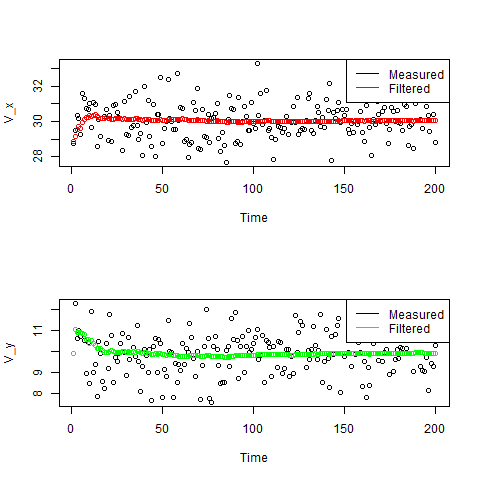
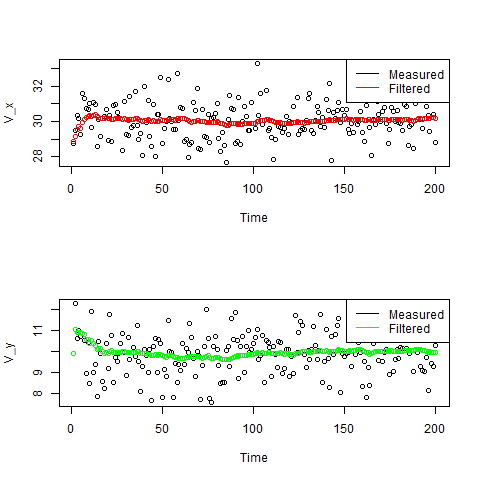
Add Q prediction model covariance

diff --git a/kalman.go b/kalman.go
@@ -15,7 +15,7 @@ type prediction struct {
 	F *mat.Dense // Prediction matrix
 	B *mat.Dense // Control matrix
 
-	W *mat.Dense // Prediction noise
+	//W *mat.Dense // Prediction noise
 	Q *mat.Dense // External noise
 }
 
@@ -31,16 +31,17 @@ func (P *prediction) NextState(ctx *context, ctrl mat.Vector) error {
 
 func (P *prediction) NextCovariance(ctx *context) error {
 	// predict new covariance matrix
-	// P_new = F * P * F^t
+	// P_new = F * P * F^t + Q
 	var PFt mat.Dense
 	PFt.Mul(ctx.P, P.F.T())
 	ctx.P.Mul(P.F, &PFt)
+	ctx.P.Add(ctx.P, P.Q)
 	return nil
 }
 
 type update struct {
 	H *mat.Dense // scaling matrix
-	R *mat.Dense // error in measurements
+	R *mat.Dense // measurements errors
 }
 
 func (u *update) Update(ctx *context, z mat.Vector) error {
@@ -75,6 +76,7 @@ func (u *update) Update(ctx *context, z mat.Vector) error {
 //Filter interface for using the Kalman filter
 type Filter interface {
 	Apply(z, ctrl mat.Vector) mat.Vector
+	State() mat.Vector
 }
 
 type filterImpl struct {
@@ -88,8 +90,15 @@ func (f *filterImpl) Apply(z, ctrl mat.Vector) mat.Vector {
 	f.Pred.NextState(&f.Ctx, ctrl)
 	f.Pred.NextCovariance(&f.Ctx)
 	f.Upd.Update(&f.Ctx, z)
+	var filtered mat.VecDense
+	filtered.MulVec(f.Upd.H, f.Ctx.X)
+	return &filtered
+}
+
+//State return the current state of the context
+func (f *filterImpl) State() mat.Vector {
 	var state mat.VecDense
-	state.MulVec(f.Upd.H, f.Ctx.X)
+	state.CloneVec(f.Ctx.X)
 	return &state
 }
 
@@ -100,7 +109,7 @@ func (f *filterImpl) Apply(z, ctrl mat.Vector) mat.Vector {
 //B: control matrix
 //H: scaling matrix for measurements
 //R: measurement error matrix
-func NewFilter(X *mat.VecDense, P, F, B, H, R *mat.Dense) Filter {
+func NewFilter(X *mat.VecDense, P, F, B, Q, H, R *mat.Dense) Filter {
 	var ctx context
 	var pred prediction
 	var upd update
@@ -114,8 +123,8 @@ func NewFilter(X *mat.VecDense, P, F, B, H, R *mat.Dense) Filter {
 	pred.B = B
 
 	// noises
-	pred.W = mat.NewDense(2, 2, nil)
-	pred.Q = mat.NewDense(2, 2, nil)
+	//pred.W = mat.NewDense(2, 2, nil)
+	pred.Q = Q
 
 	// update
 	upd.H = H

diff --git a/kalman_test.go b/kalman_test.go
@@ -21,7 +21,7 @@ func NewSetup() (*context, *prediction, *update) {
 	pred.F = mat.NewDense(2, 2, []float64{1, dt, 0, 1})
 	pred.B = mat.NewDense(2, 1, []float64{0.5 * dt * dt, dt})
 
-	pred.W = mat.NewDense(2, 2, nil)
+	//pred.W = mat.NewDense(2, 2, nil)
 	pred.Q = mat.NewDense(2, 2, nil)
 
 	// init update
@@ -96,7 +96,7 @@ func TestUpdate(t *testing.T) {
 
 func TestFilter(t *testing.T) {
 	ctx, pred, upd := NewSetup()
-	filter := NewFilter(ctx.X, ctx.P, pred.F, pred.B, upd.H, upd.R)
+	filter := NewFilter(ctx.X, ctx.P, pred.F, pred.B, pred.Q, upd.H, upd.R)
 
 	ctrl := mat.NewVecDense(1, []float64{2.0})
 	z := mat.NewVecDense(2, []float64{4260.0, 282.0})
@@ -107,6 +107,13 @@ func TestFilter(t *testing.T) {
 		fmt.Println("actual:", filteredState)
 		fmt.Println("expected:", expectedX)
 		t.Error("ApplyFilter")
+	}
+
+	checkState := filter.State()
+	if !mat.EqualApprox(filteredState, checkState, 1e-4) {
+		fmt.Println("actual:", checkState)
+		fmt.Println("expected:", filteredState)
+		t.Error("StateFilter")
 	}
 
 }

diff --git a/example/car/car.go b/example/car/car.go
@@ -39,6 +39,13 @@ func main() {
 	// no external influence
 	B := mat.NewDense(4, 4, nil)
 
+	// process model covariance matrix
+	Q := mat.NewDense(4, 4, []float64{
+		dt * dt * dt * 0.33, 0, dt * dt * 0.5, 0,
+		0, dt * dt * dt * 0.33, 0, dt * dt * 0.5,
+		dt * dt * 0.5, 0, dt, 0,
+		0, dt * dt * 0.5, 0, dt})
+
 	// scaling matrix: only measure velocities
 	H := mat.NewDense(2, 4, []float64{
 		0, 0, 1, 0,
@@ -48,7 +55,7 @@ func main() {
 	R := mat.NewDense(2, 2, []float64{100, 0, 0, 100})
 
 	// create Kalman filter
-	filter := kalman.NewFilter(X, P, F, B, H, R)
+	filter := kalman.NewFilter(X, P, F, B, Q, H, R)
 
 	// no control
 	control := mat.NewVecDense(4, nil)

diff --git a/README.md b/README.md
@@ -6,79 +6,36 @@
 
 ```go get github.com/konimarti/kalman```
 
-## Example
+## Usage
 ```go
-package main
-
-import (
-	"fmt"
-	"math/rand"
-	"os"
-
-	"github.com/konimarti/kalman"
-	"gonum.org/v1/gonum/mat"
-)
-
-func main() {
-	// prepare output file
-	file, err := os.Create("car.csv")
-	if err != nil {
-		panic(err)
-	}
-	defer file.Close()
-
-	fmt.Fprintln(file, "Measured_v_x,Measured_v_y,Filtered_v_x,Filtered_v_y")
-
-	// init state: pos_x = 0, pox_y = 0, v_x = 30 km/h, v_y = 10 km/h
-	X := mat.NewVecDense(4, []float64{0, 0, 30, 10})
-	// initial covariance matrix
-	P := mat.NewDense(4, 4, []float64{
-		1000, 0, 0, 0,
-		0, 1000, 0, 0,
-		0, 0, 1000, 0,
-		0, 0, 0, 1000})
-
-	// prediction matrix
-	dt := 0.1
-	F := mat.NewDense(4, 4, []float64{
-		1, 0, dt, 0,
-		0, 1, 0, dt,
-		0, 0, 1, 0,
-		0, 0, 0, 1})
-
-	// no external influence
-	B := mat.NewDense(4, 4, nil)
-
-	// scaling matrix: only measure velocities
-	H := mat.NewDense(2, 4, []float64{
-		0, 0, 1, 0,
-		0, 0, 0, 1})
-
-	// measurement errors
-	R := mat.NewDense(2, 2, []float64{100, 0, 0, 100})
+	// create matrices and vectors
+	...
 
 	// create Kalman filter
-	filter := kalman.NewFilter(X, P, F, B, H, R)
+	filter := kalman.NewFilter(
+		X, // initial state (n x 1)
+		P, // initial process covariance (n x n)
+		F, // prediction matrix (n x n)
+		B, // control matrix (n x k)
+		H, // measurement matrix (l x n)
+		R, // measurement errors (l x l)
+	)
 
-	// no control
-	control := mat.NewVecDense(4, nil)
+	// get measurement (l x 1) and control (k x 1) vectors
+	..
 
-	for i := 0; i < 200; i++ {
-		// measure v_x and v_y with an error which is distributed according to stanard normal
-		measurement := mat.NewVecDense(2, []float64{30 + rand.NormFloat64(), 10 + rand.NormFloat64()})
-
-		// apply filter
-		filtered := filter.Apply(measurement, control)
-
-		// print out
-		fmt.Fprintf(file, "%3.8f,%3.8f,%3.8f,%3.8f\n", measurement.AtVec(0), measurement.AtVec(1), filtered.AtVec(0), filtered.AtVec(1))
-	}
+	// apply filter
+	filtered := filter.Apply(measurement, control)
 }
 ```
 
 ### Results
 
 ![Results of Kalman filtering on car example.](example/car/car.png)
+
+### Examples
+
+See more examples [here](example/car/car.go).
 
 ## Credits
 
